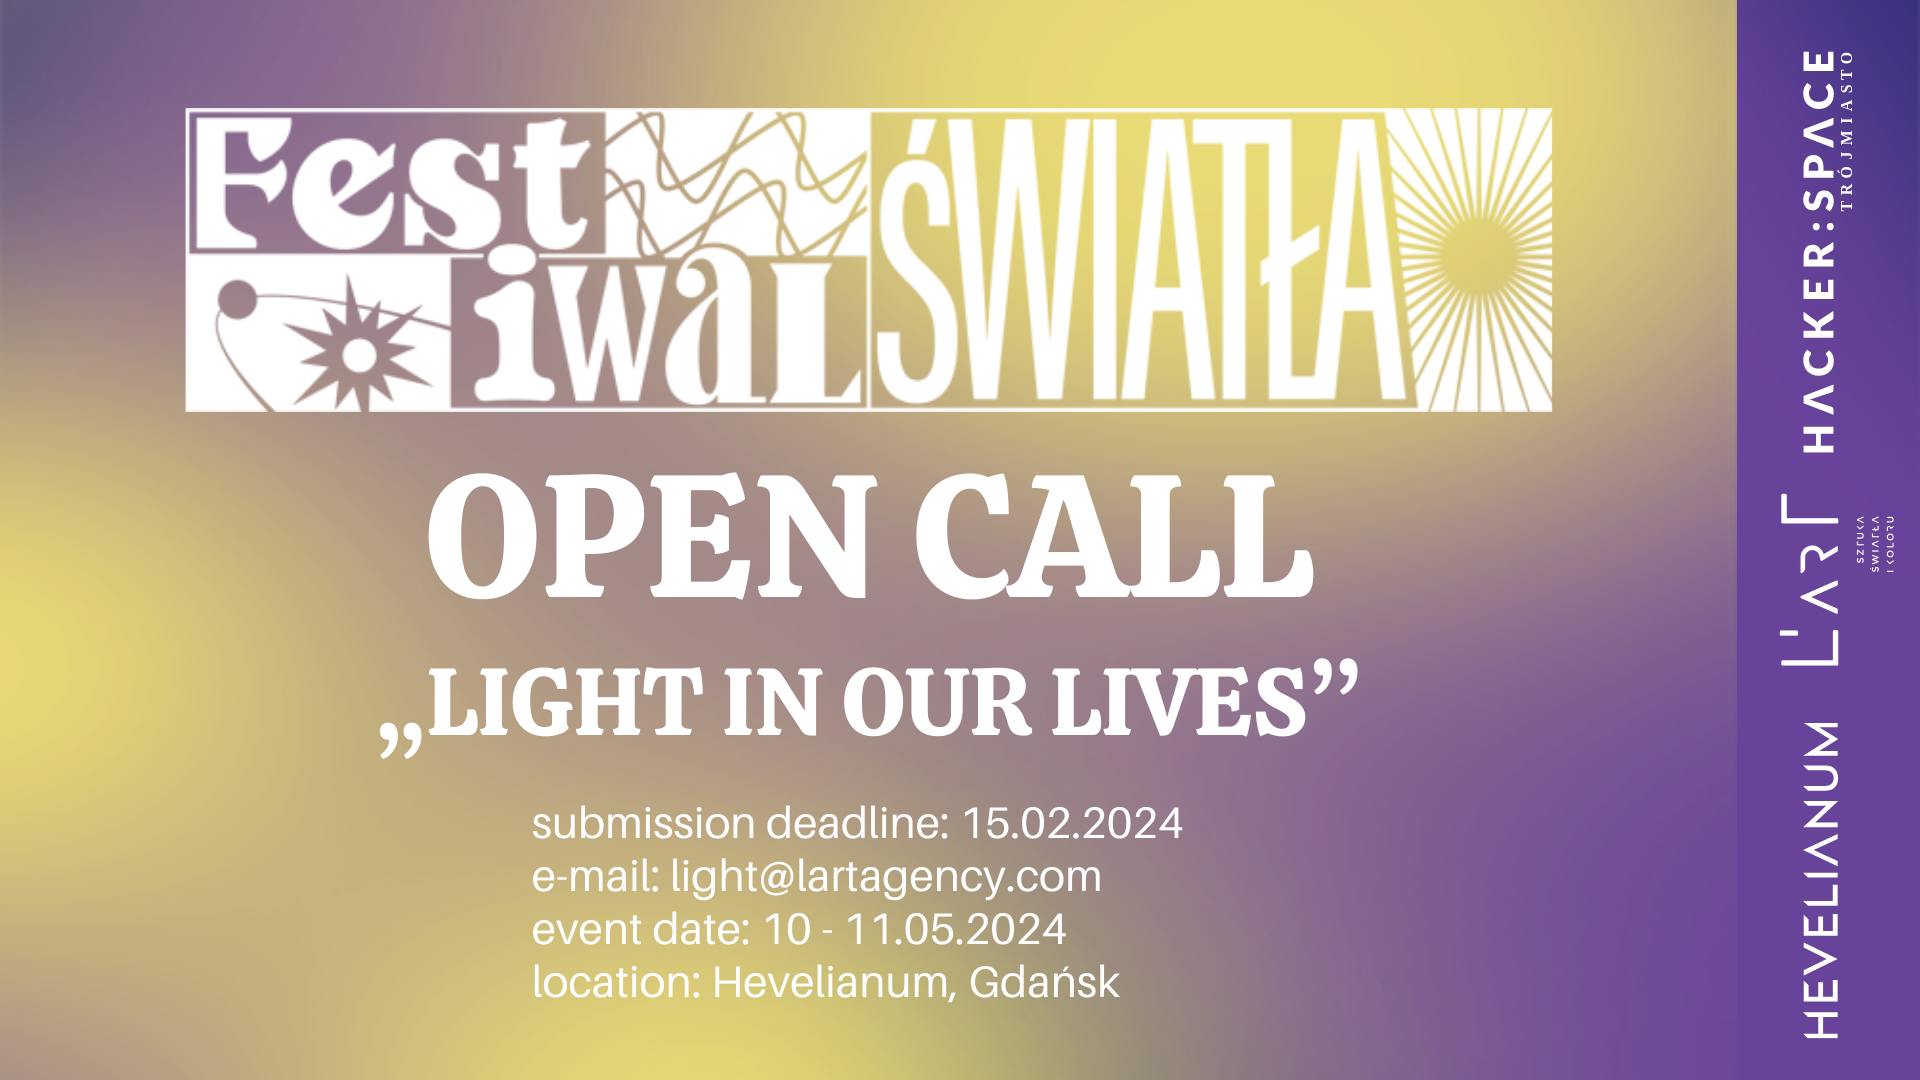
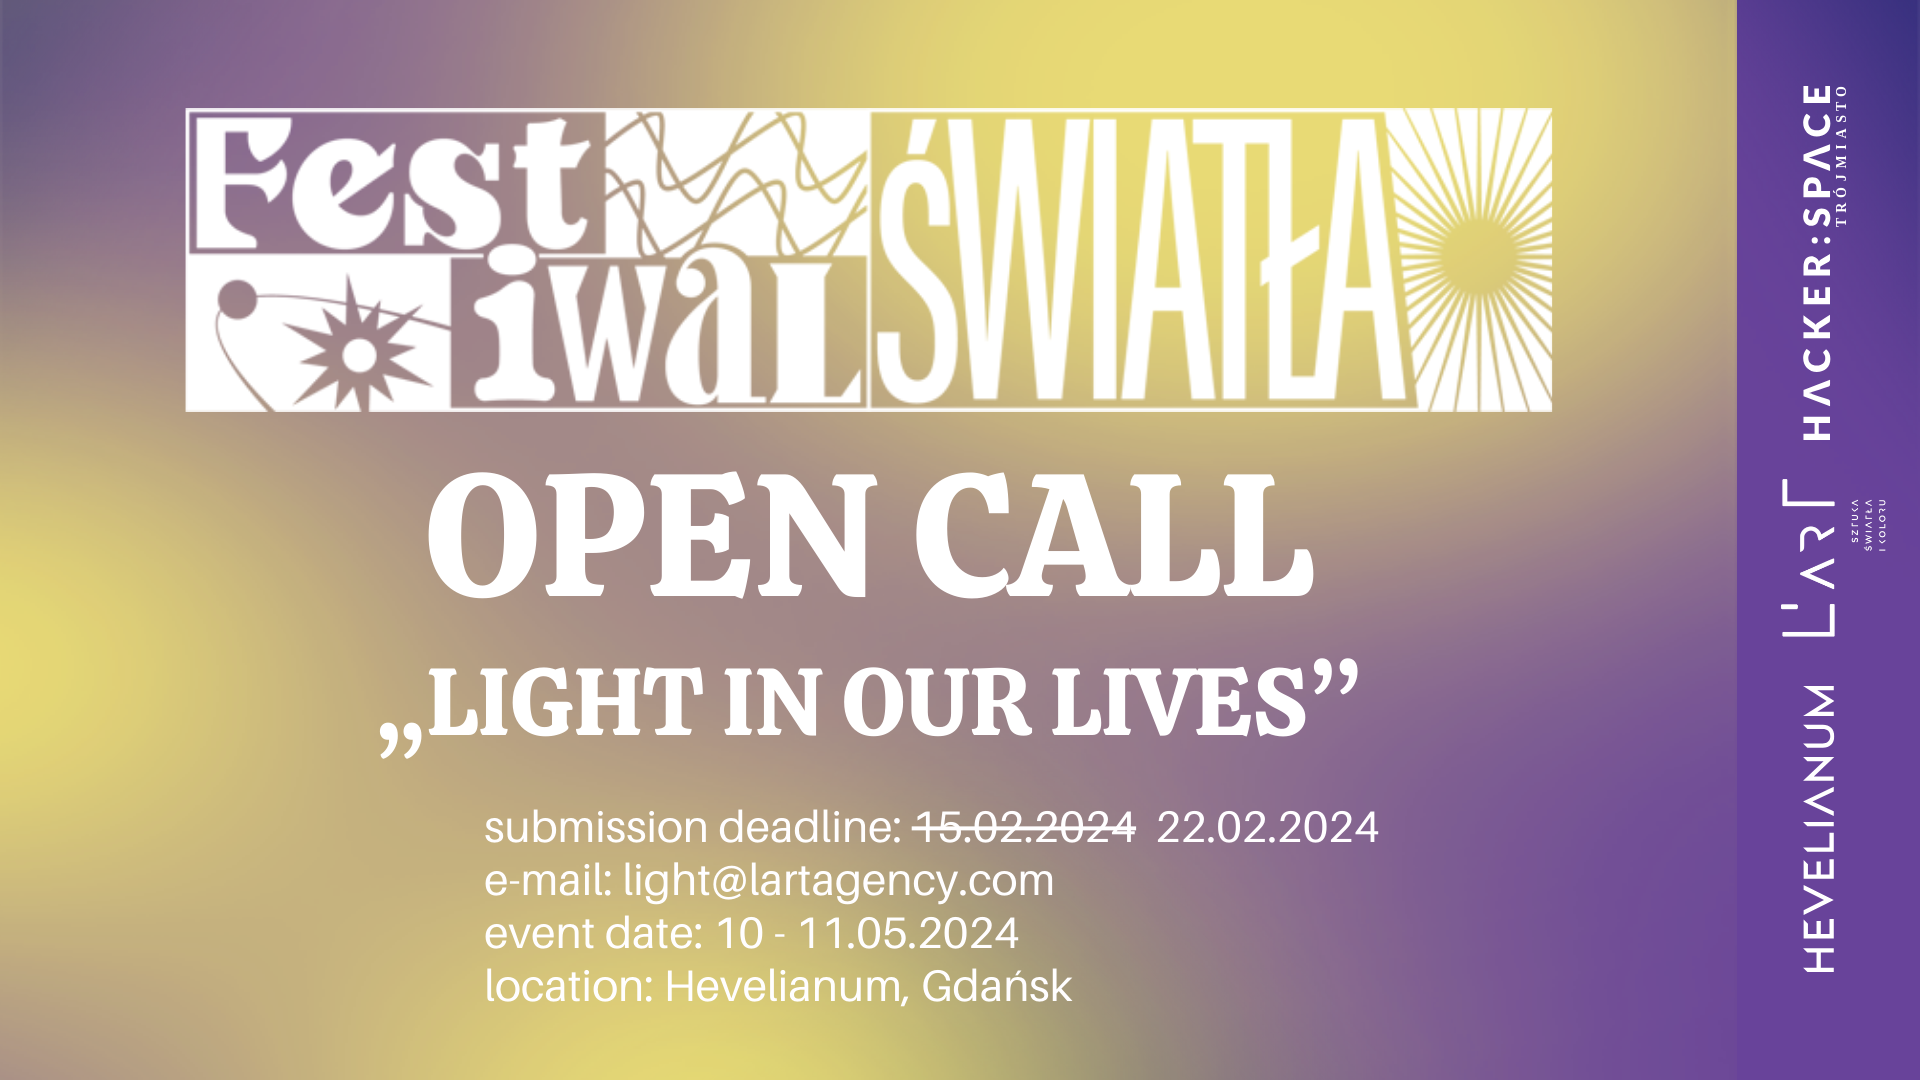
Update Open Call

Changed region(s): [[0.25, 0.7333, 0.7188, 0.9472], [0.9062, 0.4583, 1.0, 0.9778], [0.9375, 0.0306, 0.9688, 0.4278]]

diff --git a/content/en/open-call/index.md b/content/en/open-call/index.md
@@ -37,6 +37,6 @@ In previous editions, we managed to present a total of 55 attractions at the int
 ## To apply please fill in [the application form](https://forms.gle/roAw7WvqKisGxzYq6)
 
 
-We are waiting for your submissions until **February 15, 2024.**
+We are waiting for your submissions until **February 22, 2024.**
 
 **We are open to any experiments at the intersection of art, science, and technology, as well as other activities related to the festival's main theme!**

diff --git a/content/pl/open-call/index.md b/content/pl/open-call/index.md
@@ -36,6 +36,6 @@ W ramach poprzednich edycji festiwalu udało nam się zaprezentować łącznie a
 
 ## Prosimy o wypełnienie [formularza zgłoszeniowego](https://forms.gle/Ti9hdR1JVpEwPgTq7)
 
-Na zgłoszenia czekamy do **15 lutego 2024 roku**.
+Na zgłoszenia czekamy do **22 lutego 2024 roku**.
 
 **Jesteśmy otwarci na wszelkie eksperymenty z pogranicza sztuki, nauki i technologii oraz inne działania związane z tematem przewodnim festiwalu!**
